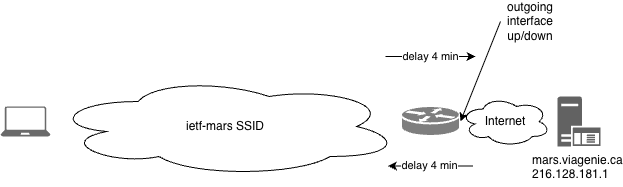
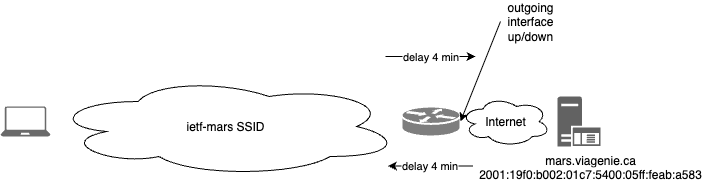
mars is now v6 only!

diff --git a/meetings/ietf124/README.md b/meetings/ietf124/README.md
@@ -42,7 +42,7 @@ and Mars:
  ![Mars](earth-relay-mars-rover-mars-functional.png)
 
 
-The Moon (moon.viagenie.ca/216.128.183.138) and Mars (mars.viagenie.ca/216.128.181.1) assets are implemented as VMs on the other side of the routers, with QUIC servers answering on port 4443,  configured based on their respective expected delays and intermittence. They also run other services as described in the following sections.
+The Moon (moon.viagenie.ca/216.128.183.138) and Mars (mars.viagenie.ca/2001:19f0:b002:01c7:5400:05ff:feab:a583) assets are implemented as VMs on the other side of the routers, with QUIC servers answering on port 4443,  configured based on their respective expected delays and intermittence. They also run other services as described in the following sections.
 
 While the use of the provided assets are suggested for testing, one can use any server on the Internet, which is on the other side of the routers, to verify, test or configure appropriately for delays. Note that without being configured for deepspace delays, they may time out or do excessive retransmissions. You are encouraged to test your implementation or any implementation on your servers and clients and see how the protocol and implementations behave.
 
@@ -77,7 +77,7 @@ To confirm your laptop is on the right network, do the following:
 - `ping -W 5 -c 2 216.128.183.138`
 - wait about 5 seconds for the first reply
 - switch to the `ietf-mars` SSID
-- `ping -W 500 -c 2 216.128.181.1`
+- `ping6 -W 500 -c 2 2001:19f0:b002:01c7:5400:05ff:feab:a583`
 - wait about 8 minutes for the first reply
 
 The -W argument specifies the time to wait for the response. Note that on Linux, the unit is seconds, while on MacOSX the unit is in milliseconds. :(
@@ -95,7 +95,7 @@ The setup will send a basic HTTP query over QUIC to space configured servers sim
 - Compile and test before switching to the ietf-moon SSID network
   - `cargo run --release --bin client -- --no-verify --maxrtt 910 --cc noop https://216.128.183.138:4443/index.html`
 - switch to `ietf-moon` SSID and then redo a get to the Moon asset: `cargo run --release --bin client -- --no-verify --maxrtt 910 --cc noop https://216.128.183.138:4443/index.html`
-- switch to `ietf-mars` SSID and then do a get to the Mars asset: `cargo run --release --bin client -- --no-verify --maxrtt 1390 --cc noop https://216.128.181.1:4443/index.html`
+- switch to `ietf-mars` SSID and then do a get to the Mars asset: `cargo run --release --bin client -- --no-verify --maxrtt 1390 --cc noop https://[2001:19f0:b002:01c7:5400:05ff:feab:a583]:4443/index.html`
 
 The `--maxrtt` argument is based on the expected maximum RTT to the target asset. It is used internally to set the initial_rtt and max_idle_timeout transport connection configuration parameters. For moon, 15 minute intermittence (15 x 60s = 900 seconds) and 2x2 seconds means 904 seconds, so 910 for some leaway. Similarly, Mars is 15 minute intermittence and 2x4 minutes means 1390 seconds. The `--cc` sets the congestion controller to the noop one. The `--no-verify` tells the client to not verify the TLS certificate, as it is a self-signed one on the server side.
 
@@ -139,7 +139,7 @@ Some early investigation for those protocols was done before. Would love to get 
 DNS can be used in deep space with proper pre-caching setup, as described in [draft-many-tiptop-dns](https://datatracker.ietf.org/doc/draft-many-tiptop-dns/). For this hackathon, no DNS pre-caching was setup, so IP addresses are used. DNS pre-caching will be deployed in future hackathons.
 
 ### IPv4 vs IPv6
-To focus on the actual issues at hand (deepspace delays), the use of a single IP version is used. Given that some of the volunteers are remote and access the mini-pc remotely from their home IPv4-only network, only IPv4 is used in this experiment :( . However, the setup has been tested for IPv6 successfully, and dual-stack will be deployed in future hackathons. Dual-stack will also enable testing possible issues (happy eyeballs come to mind) with dual-stacks in those networks. 
+To focus on the actual issues at hand (deepspace delays), the use of a single IP version per network is used. To demonstrate that both IPv4 and IPv6 can be used without a difference, `ietf-moon` is an IPv4-only network, while `ietf-mars` is an IPv6-only network. Dual-stack will be deployed in future hackathons. Dual-stack will also enable testing possible issues (happy eyeballs come to mind) with dual-stacks in those networks. 
 
 ### Caveats
 The IP packet storage implementation used in the forwarders is a prototype. It was not specifically designed to handle large amount of simultaneous trafic. So it is expected to have bugs, to die on big load or else. We will monitor it. Please report any issue. 
